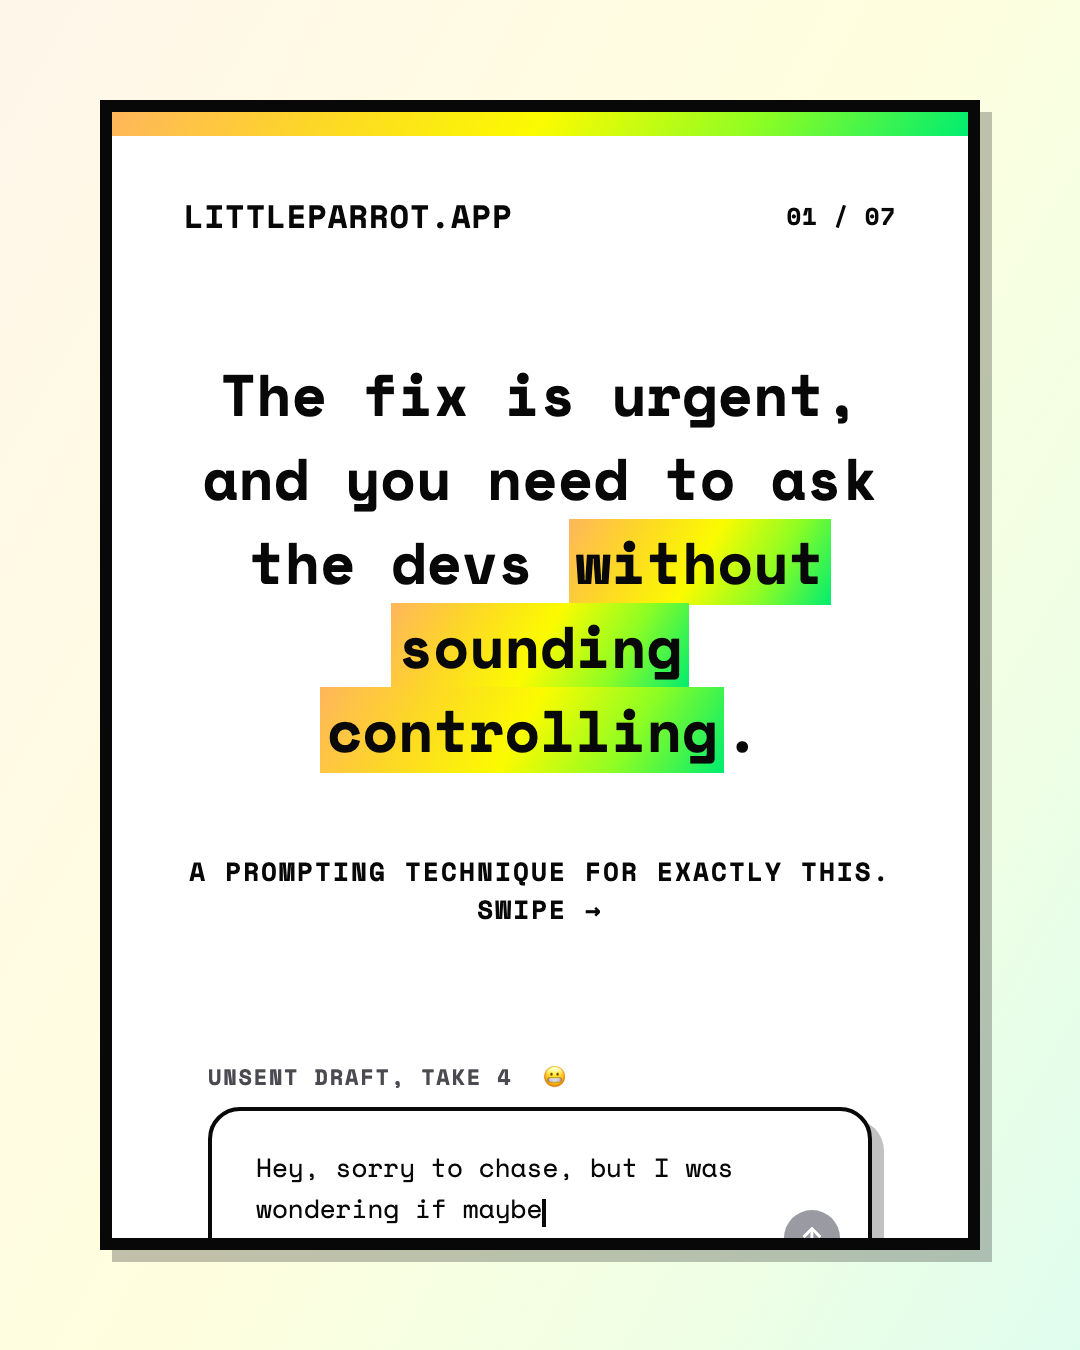
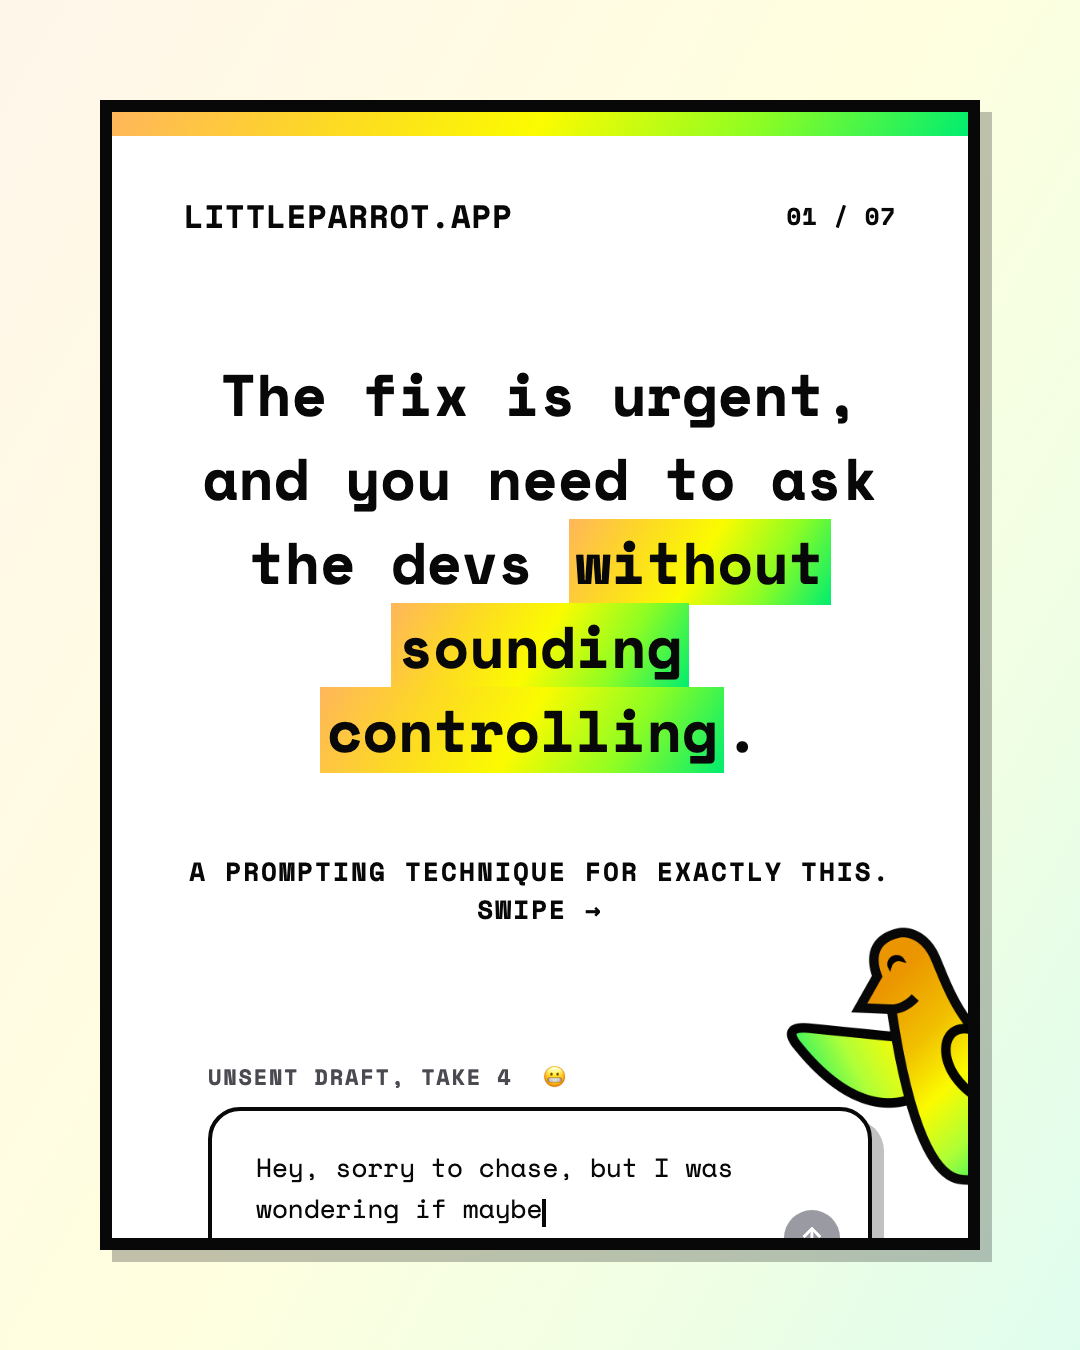
🌏 Add carousel social content about tone and style

Changed region(s): [[0.7333, 0.6844, 0.9167, 0.8711]]

diff --git a/productkind/marketing/content/courses/write-better/post-1-tone-without-sounding-controlling/carousel.html b/productkind/marketing/content/courses/write-better/post-1-tone-without-sounding-controlling/carousel.html
@@ -59,6 +59,7 @@
         <div class="header"><span class="handle">LITTLEPARROT.APP</span><span class="page">01 / 07</span></div>
         <h1 style="margin:80px 0 0; font-family:'Space Mono',monospace; font-weight:700; font-size:58px; line-height:1.45; color:#080809; text-align:center; text-wrap:pretty;">The fix is urgent, and you need to ask the devs <span class="hl">without sounding controlling</span>.</h1>
         <div style="margin-top:48px; text-align:center; font-family:'Space Mono',monospace; font-weight:700; font-size:26px; letter-spacing:0.08em; color:#080809;">A PROMPTING TECHNIQUE FOR EXACTLY THIS. SWIPE →</div>
+        <img src="uploads/little-parrot-wave.png" alt="Little Parrot mascot waving" style="position:absolute; right:0; bottom:0; width:240px;">
         <!-- The unsent, re-drafted Slack message hovering at the bottom edge -->
         <div style="position:absolute; left:96px; right:96px; bottom:-56px; display:flex; flex-direction:column; gap:14px;">
           <span class="promptlabel" style="font-size:22px;">UNSENT DRAFT, TAKE 4&nbsp;&nbsp;😬</span>

diff --git a/productkind/marketing/calendar.md b/productkind/marketing/calendar.md
@@ -8,3 +8,12 @@ their own master schedule: [content/courses/posting-sequence.md](content/courses
 
 | Date | Piece | Channels | Account | Status |
 | ---- | ----- | -------- | ------- | ------ |
+| 2026-07-11 | Second explainer video | instagram, tiktok, youtube, linkedin productkind | productkind | planned |
+| 2026-07-12 | B-roll about 'from employee to business' article | instagram, tiktok, youtube | productkind | planned |
+| 2026-07-13 | Third explainer video | instagram, tiktok, youtube, linkedin productkind | productkind | planned |
+| 2026-07-14 | Substack article carousel | instagram, tiktok, youtube, linkedin Kinga | productkind, Kinga | to-generate |
+| 2026-07-15 | Video scrolling through Markdown toolkit | instagram, tiktok, youtube, linkedin productkind | productkind | todo |
+| 2026-07-16 | WB-1 tone course carousel | instagram, tiktok, youtube, linkedin productkind | productkind | planned |
+| 2026-07-17 | Fourth explainer video | instagram, tiktok, youtube, linkedin productkind | productkind | planned |
+| 2026-07-18 | B-roll of second Substack article (funky) | instagram, tiktok, youtube | productkind | planned |
+| 2026-07-19 | SB-1 the bakery analogy course carousel | instagram, tiktok, youtube, linkedin productkind | productkind | todo |